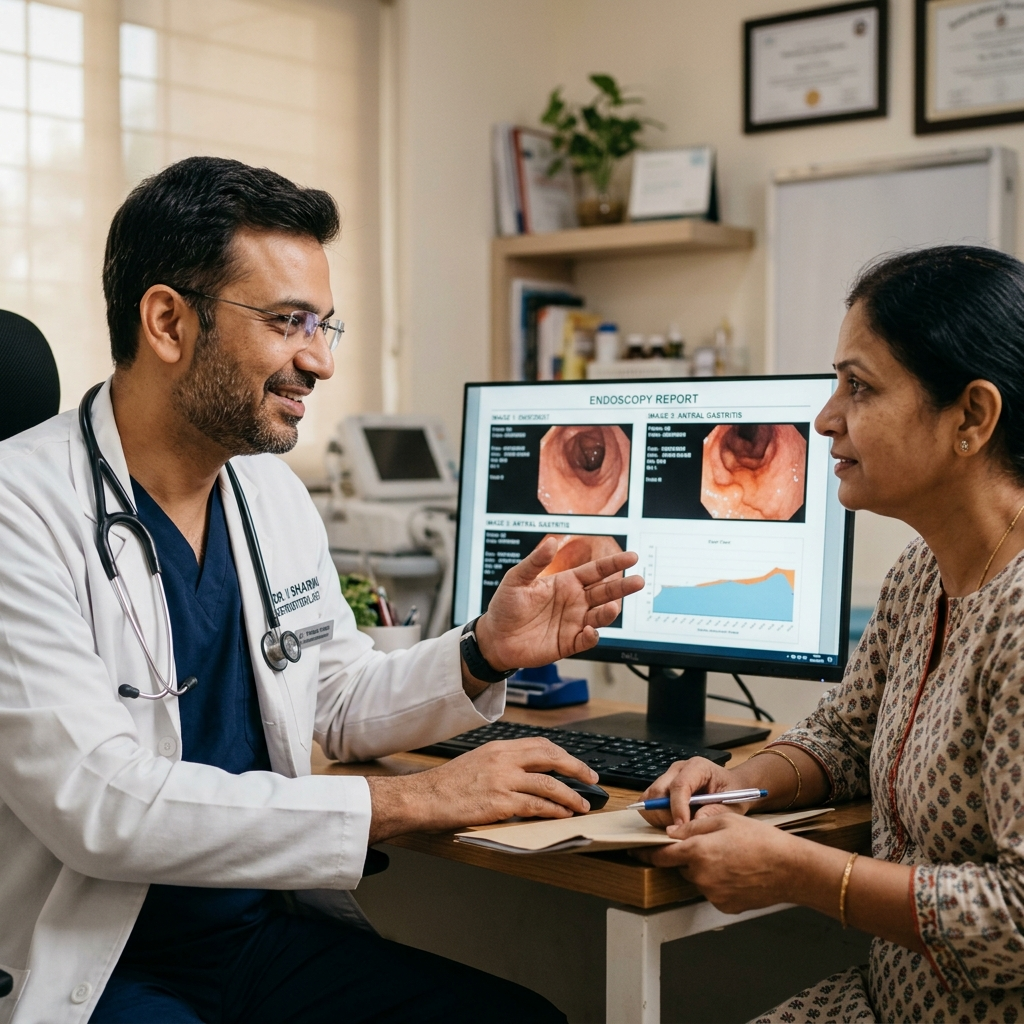
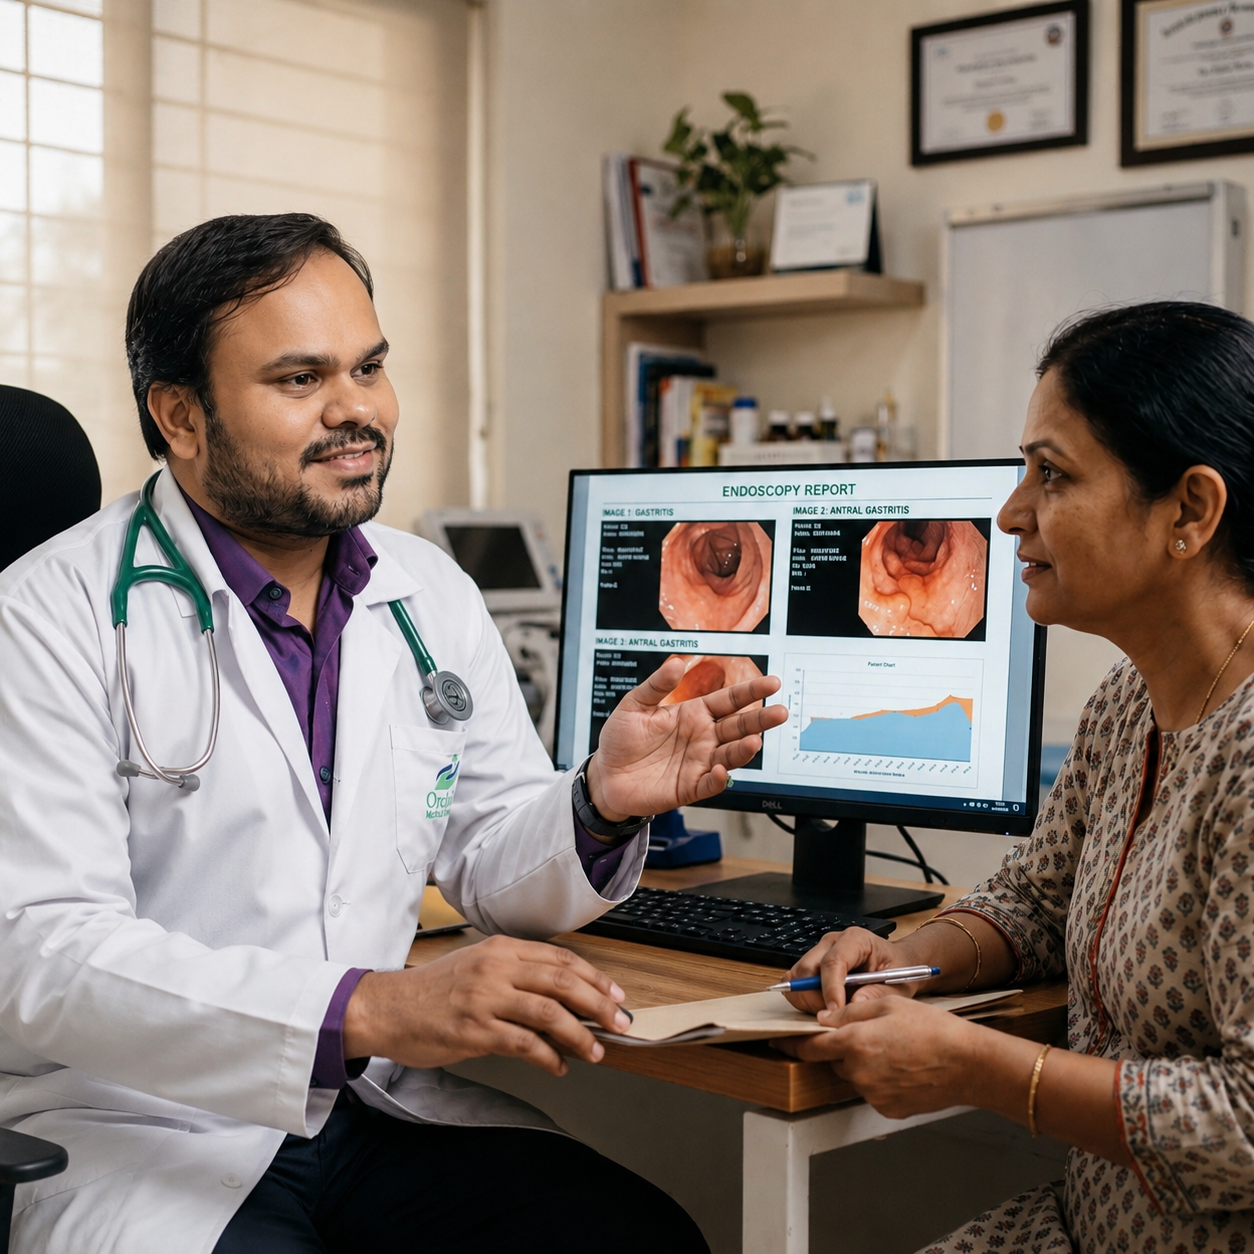
style: replace hero section consultation image with the user-provided photo

diff --git a/src/components/home/hero-section.tsx b/src/components/home/hero-section.tsx
@@ -73,7 +73,7 @@ export default function HeroSection() {
           <div className="lg:col-span-5 relative">
             <div className="aspect-[4/5] bg-primary-light rounded-3xl overflow-hidden relative shadow-sm max-w-md mx-auto">
               <img
-                src="/images/hero-consultation.png"
+                src="/images/hero-consultation.jpg"
                 alt="Dr. Akhilesh Yadav consulting a patient in a warm and bright clinic room"
                 title="Dr. Akhilesh Yadav - Gastroenterology Consultation Ranchi"
                 className="w-full h-full object-cover object-center"
